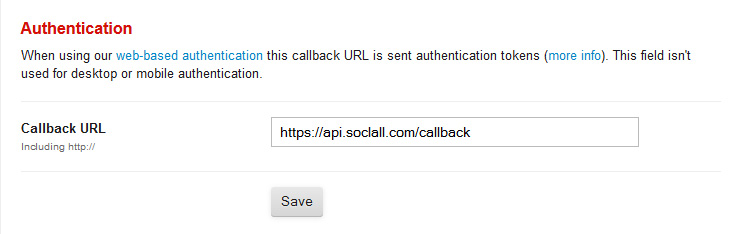
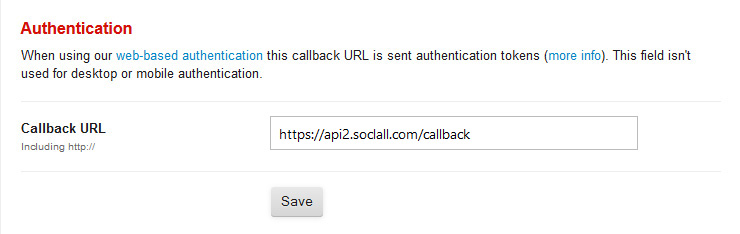
update doc

Changed region(s): [[0.3419, 0.5385, 0.8703, 0.6581], [0.373, 0.4786, 0.8703, 0.5085]]

diff --git a/docs/user-guide/google.md b/docs/user-guide/google.md
@@ -1,21 +1,20 @@
 __To register an application on Google PLus, please follow the steps below:__
 
 1. Login to [Google Account](https://accounts.google.com/) and go to Page [Google Developer](https://console.developers.google.com/) to create application
-2. Press button "Create Project" and then fill project name and project id
+2. Press button "Create Project" and then fill "Project name"
     <div class="soclall-br"></div>
     ![Google : Create Form](/img/google-2-create-form.JPG)
     <div class="soclall-br"></div>
-3. When project was created successfully, select menu "Consent screen", fill "Product Name" and press button "Save".
+3. When project was created successfully, select menu "Credentials" and select tab "OAuth consent screen", fill "Product Name" and press button "Save".
     <div class="soclall-br"></div>
     ![Google : Consent Screen](/img/google-3-consent-screen.jpg)
     <div class="soclall-br"></div>
-4. After that, select menu "Credentials", press button "Create new Client ID" and fill the form with the below information
-    * Application Type: select __Web application__
-    * Authorized Javascript Origins: __http://api2.soclall.com/__
+4. After that, select tab "Credentials", press button "Add credentials" and select "OAuth 2.0 client ID". Then choose "Web application" option and fill the form with the below information:
+    * Authorized Javascript Origins: __https://api2.soclall.com/__
     * Authorized Redirect Uris: 
         - __http://api2.soclall.com/callback__
         - __https://api2.soclall.com/callback__
-5. Then press button "Create Client ID".
+5. Then press button "Create".
     <div class="soclall-br"></div>
     ![Google : Credentials](/img/google-4-credentials.JPG)
     <div class="soclall-br"></div>
@@ -24,7 +23,7 @@ __To register an application on Google PLus, please follow the steps below:__
     <div class="soclall-br"></div>
     ![Google : Enable APIs](/img/google-5-apis.jpg)
     <div class="soclall-br"></div>
-8. After successfully registered the client ID, you can get the "Client ID" and "Client Secret" to fill SoclAll Google Settings form.
+8. After successfully registered the client ID, at "Credentials" page, click select new client ID created, you can get the "Client ID" and "Client Secret" to fill SoclAll Google Settings form.
     <div class="soclall-br"></div>
     ![Google : Client Info](/img/google-6-client-info.JPG)
     <div class="soclall-br"></div>
